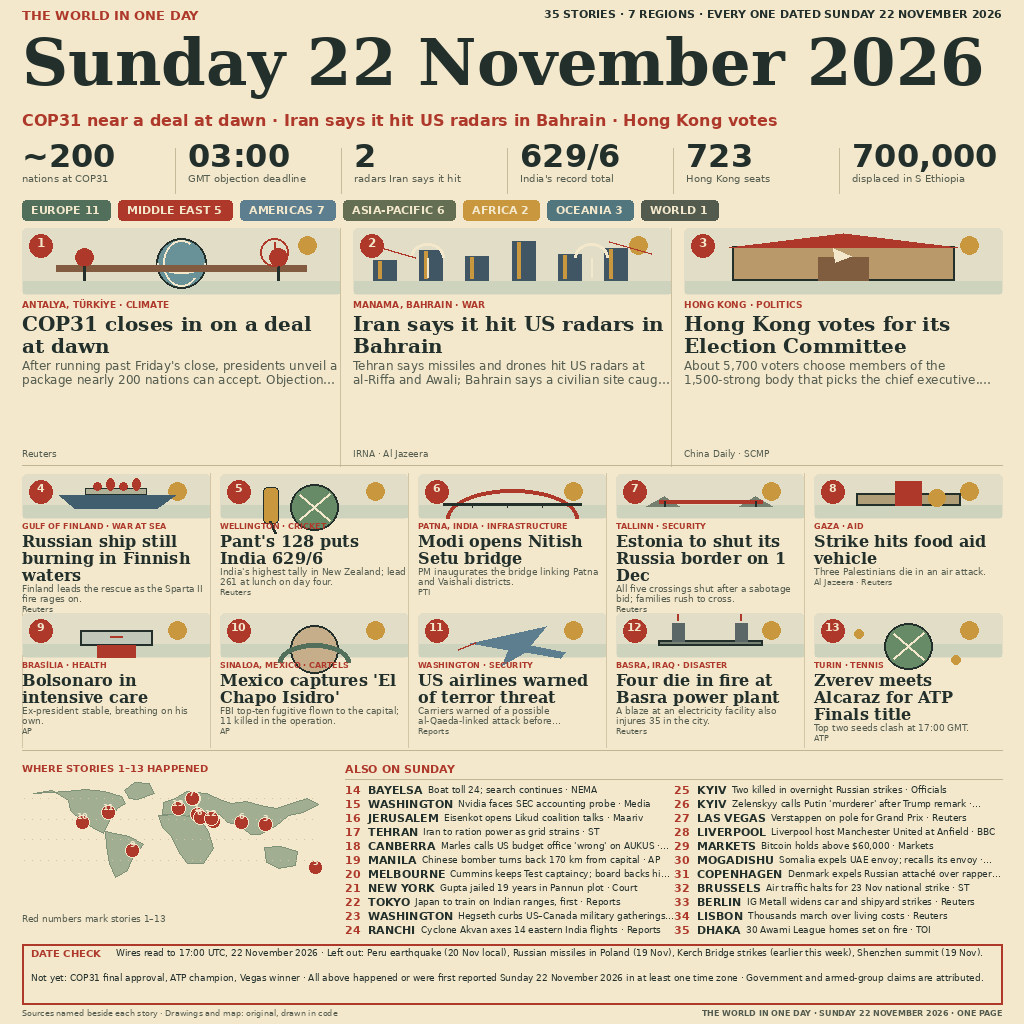
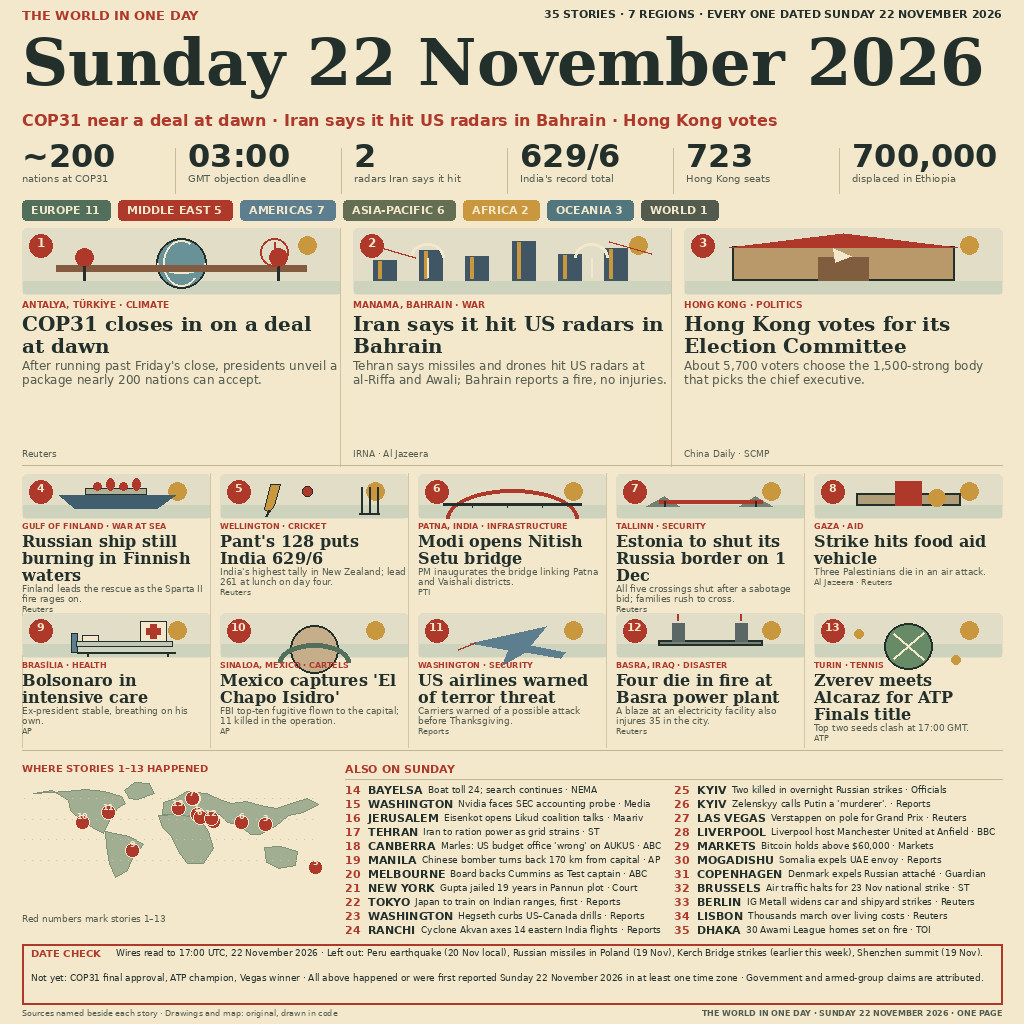
Fix truncated copy and two story illustrations

diff --git a/render.py b/render.py
@@ -59,11 +59,11 @@ def line(x1, y1, x2, y2, color=PALE, width=1):
 
 stories = [
     ('ANTALYA, TÜRKİYE · CLIMATE', 'COP31 closes in on a deal at dawn',
-     "After running past Friday's close, presidents unveil a package nearly 200 nations can accept. Objections shut at 03:00 GMT; approval opens at 06:00.", 'Reuters'),
+     "After running past Friday's close, presidents unveil a package nearly 200 nations can accept.", 'Reuters'),
     ('MANAMA, BAHRAIN · WAR', 'Iran says it hit US radars in Bahrain',
-     'Tehran says missiles and drones hit US radars at al-Riffa and Awali; Bahrain says a civilian site caught fire, no injuries.', 'IRNA · Al Jazeera'),
+     'Tehran says missiles and drones hit US radars at al-Riffa and Awali; Bahrain reports a fire, no injuries.', 'IRNA · Al Jazeera'),
     ('HONG KONG · POLITICS', 'Hong Kong votes for its Election Committee',
-     'About 5,700 voters choose members of the 1,500-strong body that picks the chief executive. Polls run 9am to 6pm; 856 candidates chase 723 seats.', 'China Daily · SCMP'),
+     'About 5,700 voters choose the 1,500-strong body that picks the chief executive.', 'China Daily · SCMP'),
     ('GULF OF FINLAND · WAR AT SEA', 'Russian ship still burning in Finnish waters',
      'Finland leads the rescue as the Sparta II fire rages on.', 'Reuters'),
     ('WELLINGTON · CRICKET', "Pant's 128 puts India 629/6", "India's highest tally in New Zealand; lead 261 at lunch on day four.", 'Reuters'),
@@ -72,7 +72,7 @@ stories = [
     ('GAZA · AID', 'Strike hits food aid vehicle', 'Three Palestinians die in an air attack.', 'Al Jazeera · Reuters'),
     ('BRASÍLIA · HEALTH', 'Bolsonaro in intensive care', 'Ex-president stable, breathing on his own.', 'AP'),
     ('SINALOA, MEXICO · CARTELS', "Mexico captures 'El Chapo Isidro'", 'FBI top-ten fugitive flown to the capital; 11 killed in the operation.', 'AP'),
-    ('WASHINGTON · SECURITY', 'US airlines warned of terror threat', 'Carriers warned of a possible al-Qaeda-linked attack before Thanksgiving.', 'Reports'),
+    ('WASHINGTON · SECURITY', 'US airlines warned of terror threat', 'Carriers warned of a possible attack before Thanksgiving.', 'Reports'),
     ('BASRA, IRAQ · DISASTER', 'Four die in fire at Basra power plant', 'A blaze at an electricity facility also injures 35 in the city.', 'Reuters'),
     ('TURIN · TENNIS', 'Zverev meets Alcaraz for ATP Finals title', 'Top two seeds clash at 17:00 GMT.', 'ATP'),
 ]
@@ -82,20 +82,20 @@ briefs = [
     ('15', 'WASHINGTON', 'Nvidia faces SEC accounting probe', 'Media'),
     ('16', 'JERUSALEM', 'Eisenkot opens Likud coalition talks', 'Maariv'),
     ('17', 'TEHRAN', 'Iran to ration power as grid strains', 'ST'),
-    ('18', 'CANBERRA', "Marles calls US budget office 'wrong' on AUKUS", 'ABC'),
+    ('18', 'CANBERRA', "Marles: US budget office 'wrong' on AUKUS", 'ABC'),
     ('19', 'MANILA', 'Chinese bomber turns back 170 km from capital', 'AP'),
-    ('20', 'MELBOURNE', 'Cummins keeps Test captaincy; board backs him', 'ABC'),
+    ('20', 'MELBOURNE', 'Board backs Cummins as Test captain', 'ABC'),
     ('21', 'NEW YORK', 'Gupta jailed 19 years in Pannun plot', 'Court'),
     ('22', 'TOKYO', 'Japan to train on Indian ranges, first', 'Reports'),
-    ('23', 'WASHINGTON', 'Hegseth curbs US–Canada military gatherings', 'Reports'),
+    ('23', 'WASHINGTON', 'Hegseth curbs US–Canada drills', 'Reports'),
     ('24', 'RANCHI', 'Cyclone Akvan axes 14 eastern India flights', 'Reports'),
     ('25', 'KYIV', 'Two killed in overnight Russian strikes', 'Officials'),
-    ('26', 'KYIV', "Zelenskyy calls Putin 'murderer' after Trump remark", 'Reports'),
+    ('26', 'KYIV', "Zelenskyy calls Putin a 'murderer'.", 'Reports'),
     ('27', 'LAS VEGAS', 'Verstappen on pole for Grand Prix', 'Reuters'),
     ('28', 'LIVERPOOL', 'Liverpool host Manchester United at Anfield', 'BBC'),
     ('29', 'MARKETS', 'Bitcoin holds above $60,000', 'Markets'),
-    ('30', 'MOGADISHU', 'Somalia expels UAE envoy; recalls its envoy', 'Reports'),
-    ('31', 'COPENHAGEN', 'Denmark expels Russian attaché over rapper plot', 'Guardian'),
+    ('30', 'MOGADISHU', 'Somalia expels UAE envoy', 'Reports'),
+    ('31', 'COPENHAGEN', 'Denmark expels Russian attaché', 'Guardian'),
     ('32', 'BRUSSELS', 'Air traffic halts for 23 Nov national strike', 'ST'),
     ('33', 'BERLIN', 'IG Metall widens car and shipyard strikes', 'Reuters'),
     ('34', 'LISBON', 'Thousands march over living costs', 'Reuters'),
@@ -110,7 +110,7 @@ text(22, 111, 'COP31 near a deal at dawn · Iran says it hit US radars in Bahrai
 
 # Six-item number strip
 numbers = [('~200', 'nations at COP31'), ('03:00', 'GMT objection deadline'), ('2', 'radars Iran says it hit'),
-           ('629/6', "India's record total"), ('723', 'Hong Kong seats'), ('700,000', 'displaced in S Ethiopia')]
+           ('629/6', "India's record total"), ('723', 'Hong Kong seats'), ('700,000', 'displaced in Ethiopia')]
 nx = [22, 188, 354, 520, 686, 852]
 for i, (value, caption) in enumerate(numbers):
     if i:
@@ -179,14 +179,19 @@ def art_box(x, y, w, h, kind):
             for px in (x + 62, x + w - 63):
                 d.rectangle((px - 6, y + 10, px + 6, y + 28), fill=(90, 103, 102))
                 d.line((px, y + 7, px, y + 1), fill=RED, width=2)
-    elif kind in (4, 12):  # cricket bat / tennis match
-        d.ellipse((mid - 24, y + 10, mid + 24, y + 56), fill=(103, 139, 102), outline=INK, width=2)
-        d.line((mid - 15, y + 20, mid + 15, y + 46), fill=PAPER, width=2)
-        d.line((mid + 15, y + 20, mid - 15, y + 46), fill=PAPER, width=2)
+    elif kind in (4, 12):  # cricket equipment / tennis match
         if kind == 4:
-            d.rounded_rectangle((x + 43, y + 13, x + 58, y + 49), radius=4, fill=GOLD, outline=INK)
-            d.line((x + 50, y + 47, x + 55, y + 59), fill=INK, width=3)
+            d.polygon([(x + 50, y + 10), (x + 60, y + 10), (x + 54, y + 31),
+                       (x + 49, y + 38), (x + 44, y + 35)], fill=GOLD, outline=INK)
+            d.line((x + 49, y + 36, x + 46, y + 42), fill=INK, width=3)
+            d.ellipse((x + 82, y + 12, x + 92, y + 22), fill=RED, outline=INK)
+            for px in (x + w - 47, x + w - 39, x + w - 31):
+                d.line((px, y + 13, px, y + 39), fill=INK, width=2)
+            d.line((x + w - 49, y + 39, x + w - 29, y + 39), fill=INK, width=2)
         else:
+            d.ellipse((mid - 24, y + 10, mid + 24, y + 56), fill=(103, 139, 102), outline=INK, width=2)
+            d.line((mid - 15, y + 20, mid + 15, y + 46), fill=PAPER, width=2)
+            d.line((mid + 15, y + 20, mid - 15, y + 46), fill=PAPER, width=2)
             d.ellipse((x + 40, y + 16, x + 49, y + 25), fill=GOLD)
             d.ellipse((x + w - 51, y + 42, x + w - 42, y + 51), fill=GOLD)
     elif kind in (5, 7, 8, 9):  # bridge / aid / hospital / capture
@@ -199,9 +204,15 @@ def art_box(x, y, w, h, kind):
             d.rectangle((mid - 13, y + h - 37, mid + 13, y + h - 13), fill=RED)
             d.ellipse((mid + 20, y + 15, mid + 37, y + 32), fill=GOLD)
         elif kind == 8:
-            d.rectangle((x + 58, y + 17, x + w - 58, y + h - 12), fill=(193, 199, 185), outline=INK, width=2)
-            d.rectangle((mid - 6, y + 23, mid + 6, y + h - 20), fill=RED)
-            d.rectangle((mid - 19, y + 32, mid + 19, y + 44), fill=RED)
+            d.rectangle((x + 49, y + 20, x + 55, y + 39), fill=BLUE, outline=INK)
+            d.rectangle((x + 54, y + 28, x + w - 38, y + 33), fill=(193, 199, 185), outline=INK)
+            d.rectangle((x + 60, y + 22, x + 76, y + 28), fill=PAPER, outline=INK)
+            d.line((x + 55, y + 39, x + w - 35, y + 39), fill=INK, width=2)
+            d.line((x + 65, y + 39, x + 65, y + 43), fill=INK, width=2)
+            d.line((x + w - 43, y + 39, x + w - 43, y + 43), fill=INK, width=2)
+            d.rectangle((x + w - 70, y + 8, x + w - 44, y + 28), fill=PAPER, outline=INK)
+            d.rectangle((x + w - 60, y + 11, x + w - 54, y + 25), fill=RED)
+            d.rectangle((x + w - 64, y + 15, x + w - 50, y + 21), fill=RED)
         else:
             d.ellipse((mid - 24, y + 12, mid + 24, y + 60), fill=(198, 174, 139), outline=INK, width=2)
             d.arc((mid - 36, y + 30, mid + 36, y + 68), 180, 360, fill=GREEN, width=5)
